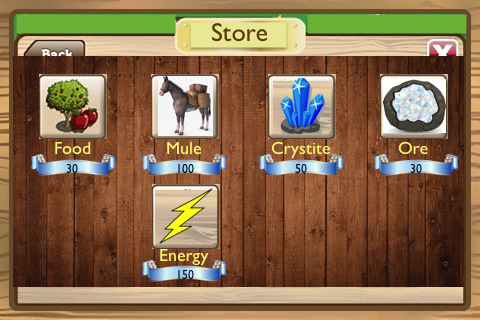
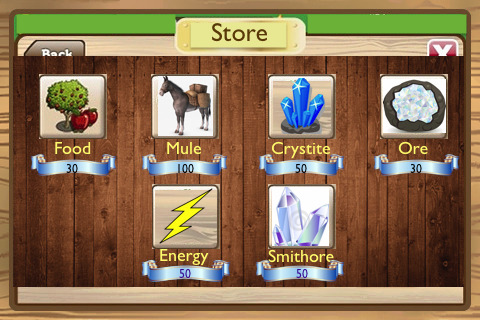
Store is up

Changed region(s): [[0.5312, 0.5625, 0.7188, 0.9062], [0.3438, 0.8125, 0.5, 0.9062], [0.2812, 0.8125, 0.3438, 0.8438]]

diff --git a/src/mule/StoreManager.java b/src/mule/StoreManager.java
@@ -13,7 +13,7 @@ public class StoreManager {
      * Method to deduct store's inventory
      * @param quantityFood - deduct amount
      */
-    public void exportFood(int quantityFood) {
+    public static void exportFood(int quantityFood) {
         int foodPrice = Store.getFoodPrice() ;
         Player currentPlayer = RoundManager.getCurrentPlayer();
         //int playerFoodAmount = RoundManager.getCurrentPlayer().getFood();
@@ -33,7 +33,7 @@ public class StoreManager {
      * Method to add store's inventory
      * @param quantityFood - deduct amount
      */
-    public void importFood(int quantityFood) {
+    public static void importFood(int quantityFood) {
         //int foodPrice = Store.getFoodPrice();
         Player currentPlayer = RoundManager.getCurrentPlayer();
         int playerFoodAmount = currentPlayer.getFood();
@@ -51,7 +51,7 @@ public class StoreManager {
 
     }
 
-    public void exportEnergy(int quantityEnergy) {
+    public static void exportEnergy(int quantityEnergy) {
         int energyPrice = Store.getEnergyPrice() ;
         Player currentPlayer = RoundManager.getCurrentPlayer();
         //int playerEnergyAmount = RoundManager.getCurrentPlayer().getEnergy();
@@ -67,7 +67,7 @@ public class StoreManager {
         else
             System.out.println("insufficient funds");
     }
-    public void importEnergy(int quantityEnergy) {
+    public static void importEnergy(int quantityEnergy) {
         //int energyPrice = Store.getEnergyPrice() ;
         Player currentPlayer = RoundManager.getCurrentPlayer();
         int playerEnergyAmount = currentPlayer.getEnergy();
@@ -84,7 +84,7 @@ public class StoreManager {
             System.out.println("insufficient funds");
     }
 
-    public void exportSmithore(int quantitySmithore) {
+    public static void exportSmithore(int quantitySmithore) {
         int smithorePrice = Store.getSmithorePrice() ;
         Player currentPlayer = RoundManager.getCurrentPlayer();
         //int playerSmithoreAmount = currentPlayer.getSmithore();
@@ -100,7 +100,7 @@ public class StoreManager {
         else
             System.out.println("insufficient funds");
     }
-    public void importSmithore(int quantitySmithore) {
+    public static void importSmithore(int quantitySmithore) {
         //int smithorePrice = Store.getSmithorePrice() ;
         Player currentPlayer = RoundManager.getCurrentPlayer();
         int playerSmithoreAmount = currentPlayer.getSmithore();
@@ -117,7 +117,7 @@ public class StoreManager {
             System.out.println("insufficient funds");
     }
 
-    public void exportCrystite(int quantityCrystite) {
+    public static void exportCrystite(int quantityCrystite) {
         int crystitePrice = Store.getCrystitePrice() ;
         Player currentPlayer = RoundManager.getCurrentPlayer();
         //int playerCrystiteAmount = currentPlayer.getCrystite();
@@ -133,7 +133,7 @@ public class StoreManager {
         else
             System.out.println("insufficient funds");
     }
-    public void importCrystite(int quantityCrystite) {
+    public static void importCrystite(int quantityCrystite) {
         int crystitePrice = Store.getCrystitePrice() ;
         Player currentPlayer = RoundManager.getCurrentPlayer();
         int playerCrystiteAmount = currentPlayer.getCrystite();
@@ -150,7 +150,7 @@ public class StoreManager {
             System.out.println("insufficient funds");
     }
 
-    public void exportOre(int quantityOre) {
+    public static void exportOre(int quantityOre) {
         int orePrice = Store.getorePrice() ;
         Player currentPlayer = RoundManager.getCurrentPlayer();
         //int playerCrystiteAmount = currentPlayer.getCrystite();
@@ -166,7 +166,7 @@ public class StoreManager {
         else
             System.out.println("insufficient funds");
     }
-    public void importOre(int quantityOre) {
+    public static void importOre(int quantityOre) {
         int orePrice = Store.getorePrice() ;
         Player currentPlayer = RoundManager.getCurrentPlayer();
         int playerOreAmount = currentPlayer.getOre();

diff --git a/src/mule/view/GameController.java b/src/mule/view/GameController.java
@@ -2,6 +2,7 @@ package mule.view;
 
 import javafx.beans.value.ChangeListener;
 import javafx.beans.value.ObservableValue;
+import javafx.collections.FXCollections;
 import javafx.event.ActionEvent;
 import javafx.event.EventHandler;
 import javafx.fxml.FXML;
@@ -44,6 +45,14 @@ public class GameController {
     private HBox map;
     @FXML
     private Button store;
+    @FXML
+    private ChoiceBox<String> purchaseFood;
+    @FXML
+    private ChoiceBox<String> purchaseCrystite;
+    @FXML
+    private ChoiceBox<String> purchaseEnergy;
+    @FXML
+    private ChoiceBox<String> purchaseSmithore;
     @FXML
     private Button food;
     @FXML
@@ -140,6 +149,8 @@ public class GameController {
     @FXML
     private Label timerLabel;
     private timer Timer = new timer(Player.calcPlayerTime(RoundManager.getCurrentPlayer()));
+
+    private String selectedPurchase;
 
     public GameController() {
 
@@ -894,6 +905,10 @@ public class GameController {
         }
         }
 
+    private javafx.collections.ObservableList<String> purchaseChoiceBoxData =
+            javafx.collections.FXCollections.observableArrayList();
+
+
     public void setTimer() {
         setTimerLabel(Timer, timerLabel);
         Timer.startTimer();
@@ -918,17 +933,58 @@ public class GameController {
 
 
     @FXML
-    private void goToStoreubButton() {
+    private void goToStorebButton() {
         town.setVisible(false);
         map.setVisible(false);
         Store.setVisible(true);
     }
 
     @FXML
+    private void handlePurchaseFoodAction() {
+        purchaseFood.setItems(FXCollections.observableArrayList("Buy", "Sell"));
+        if (purchaseFood.getSelectionModel().getSelectedItem() == "Buy") {
+            StoreManager.exportFood(4);
+        }
+        if (purchaseFood.getSelectionModel().getSelectedItem() == "Sell") {
+            StoreManager.importFood(4);
+        }
+    }
+    @FXML
+    private void handlePurchaseSmithoreAction() {
+        purchaseSmithore.setItems(FXCollections.observableArrayList("Buy", "Sell"));
+        if (purchaseSmithore.getSelectionModel().getSelectedItem() == "Buy") {
+            StoreManager.exportSmithore(4);
+        }
+        if (purchaseSmithore.getSelectionModel().getSelectedItem() == "Sell") {
+            StoreManager.importSmithore(4);
+        }
+    }
+    @FXML
+    private void handlePurchaseCrystiteAction() {
+        purchaseCrystite.setItems(FXCollections.observableArrayList("Buy", "Sell"));
+        if (purchaseCrystite.getSelectionModel().getSelectedItem() == "Buy") {
+            StoreManager.exportCrystite(4);
+        }
+        if (purchaseCrystite.getSelectionModel().getSelectedItem() == "Sell") {
+            StoreManager.importCrystite(4);
+        }
+    }
+    @FXML
+    private void handlePurchaseEnergyAction() {
+        purchaseEnergy.setItems(FXCollections.observableArrayList("Buy", "Sell"));
+        if (purchaseEnergy.getSelectionModel().getSelectedItem() == "Buy") {
+            StoreManager.exportEnergy(4);
+        }
+        if (purchaseEnergy.getSelectionModel().getSelectedItem() == "Sell") {
+            StoreManager.importEnergy(4);
+        }
+    }
+    
+    @FXML
     private void exitStoreButtonAction() throws Exception {
         Store.setVisible(false);
-        town.setVisible(false);
-        map.setVisible(true);
+        town.setVisible(true);
+        map.setVisible(false);
     }
 
     @FXML
@@ -941,8 +997,8 @@ public class GameController {
     @FXML
     private void exitPubButtonAction() throws Exception {
         Pub.setVisible(false);
-        town.setVisible(false);
-        map.setVisible(true);
+        town.setVisible(true);
+        map.setVisible(false);
     }
 
     @FXML
